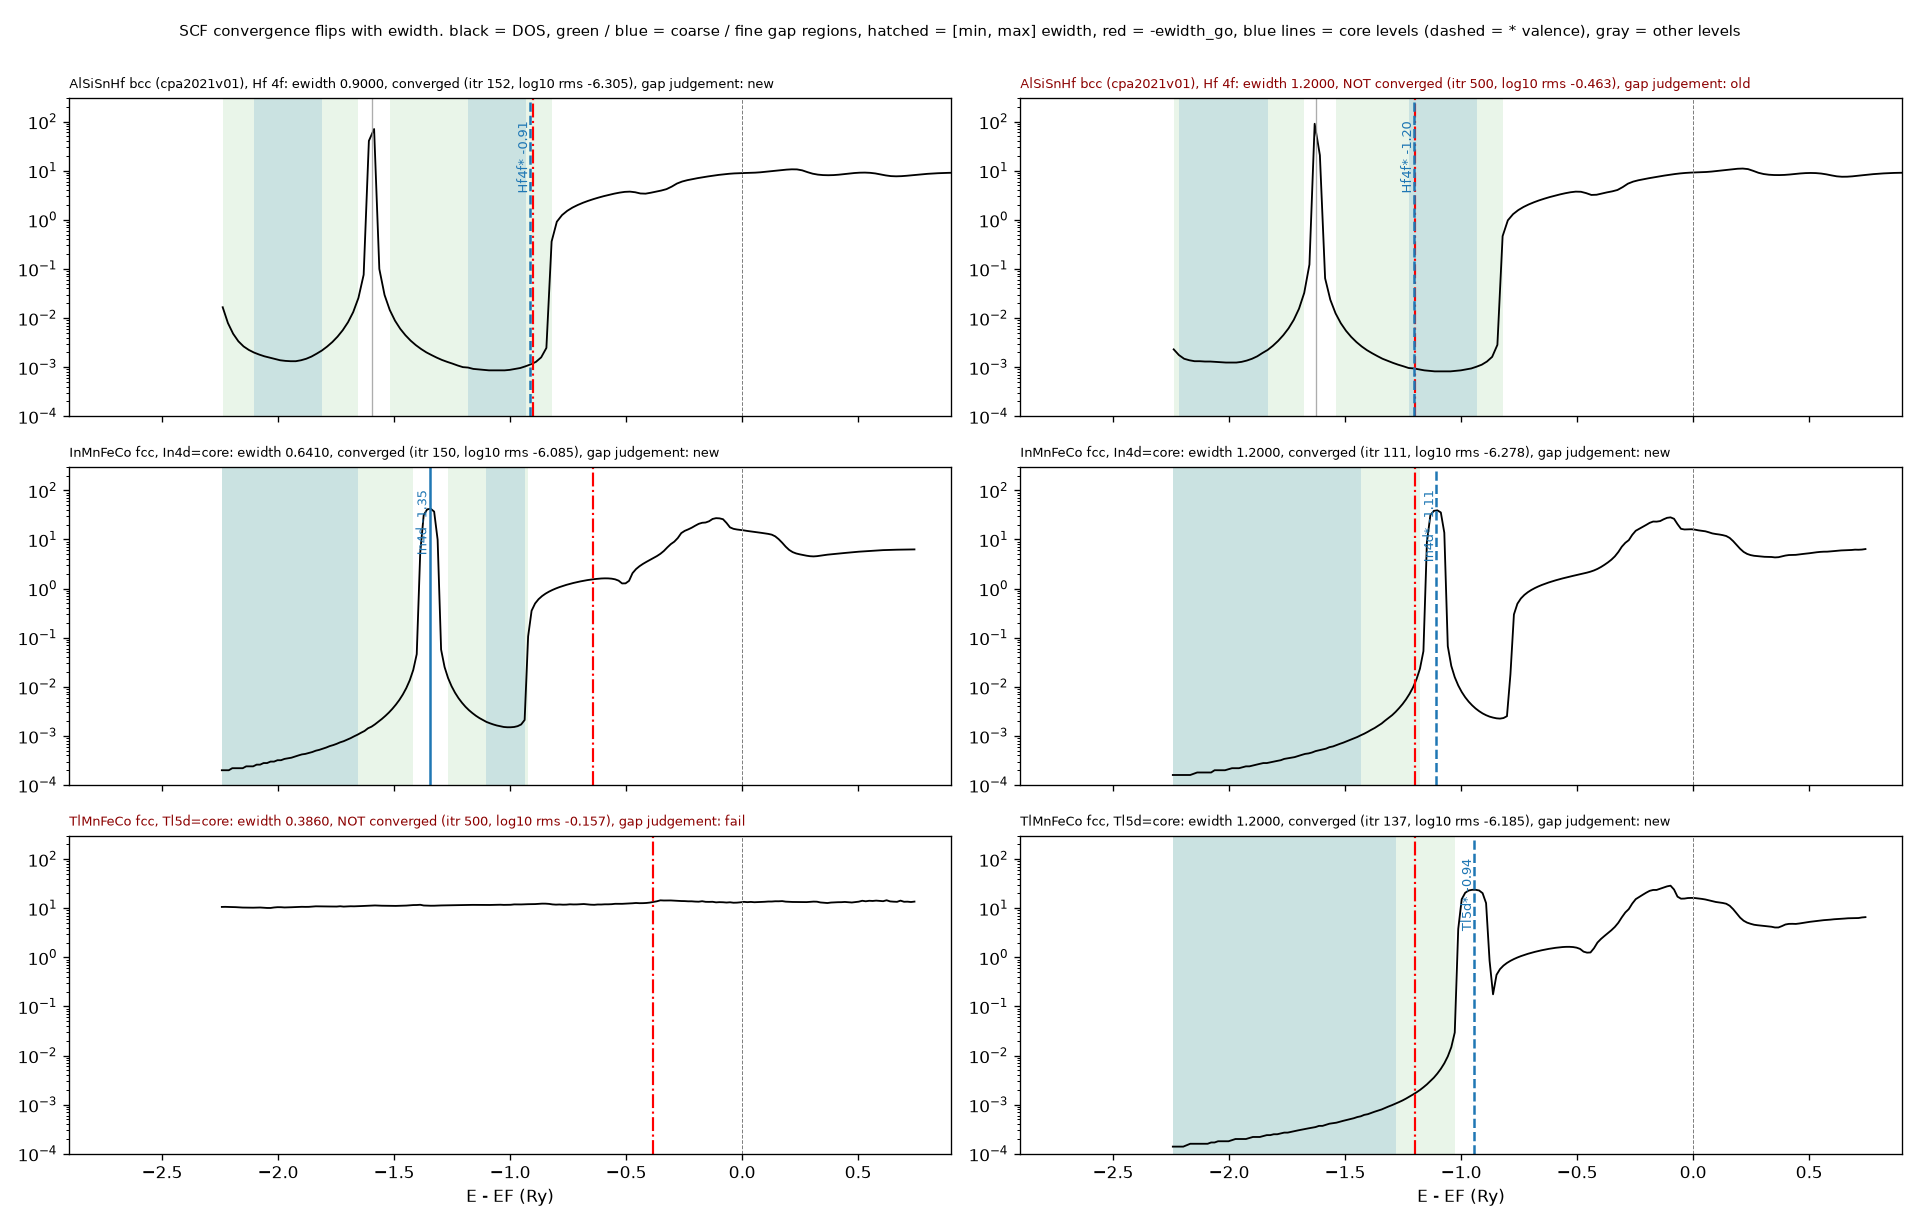
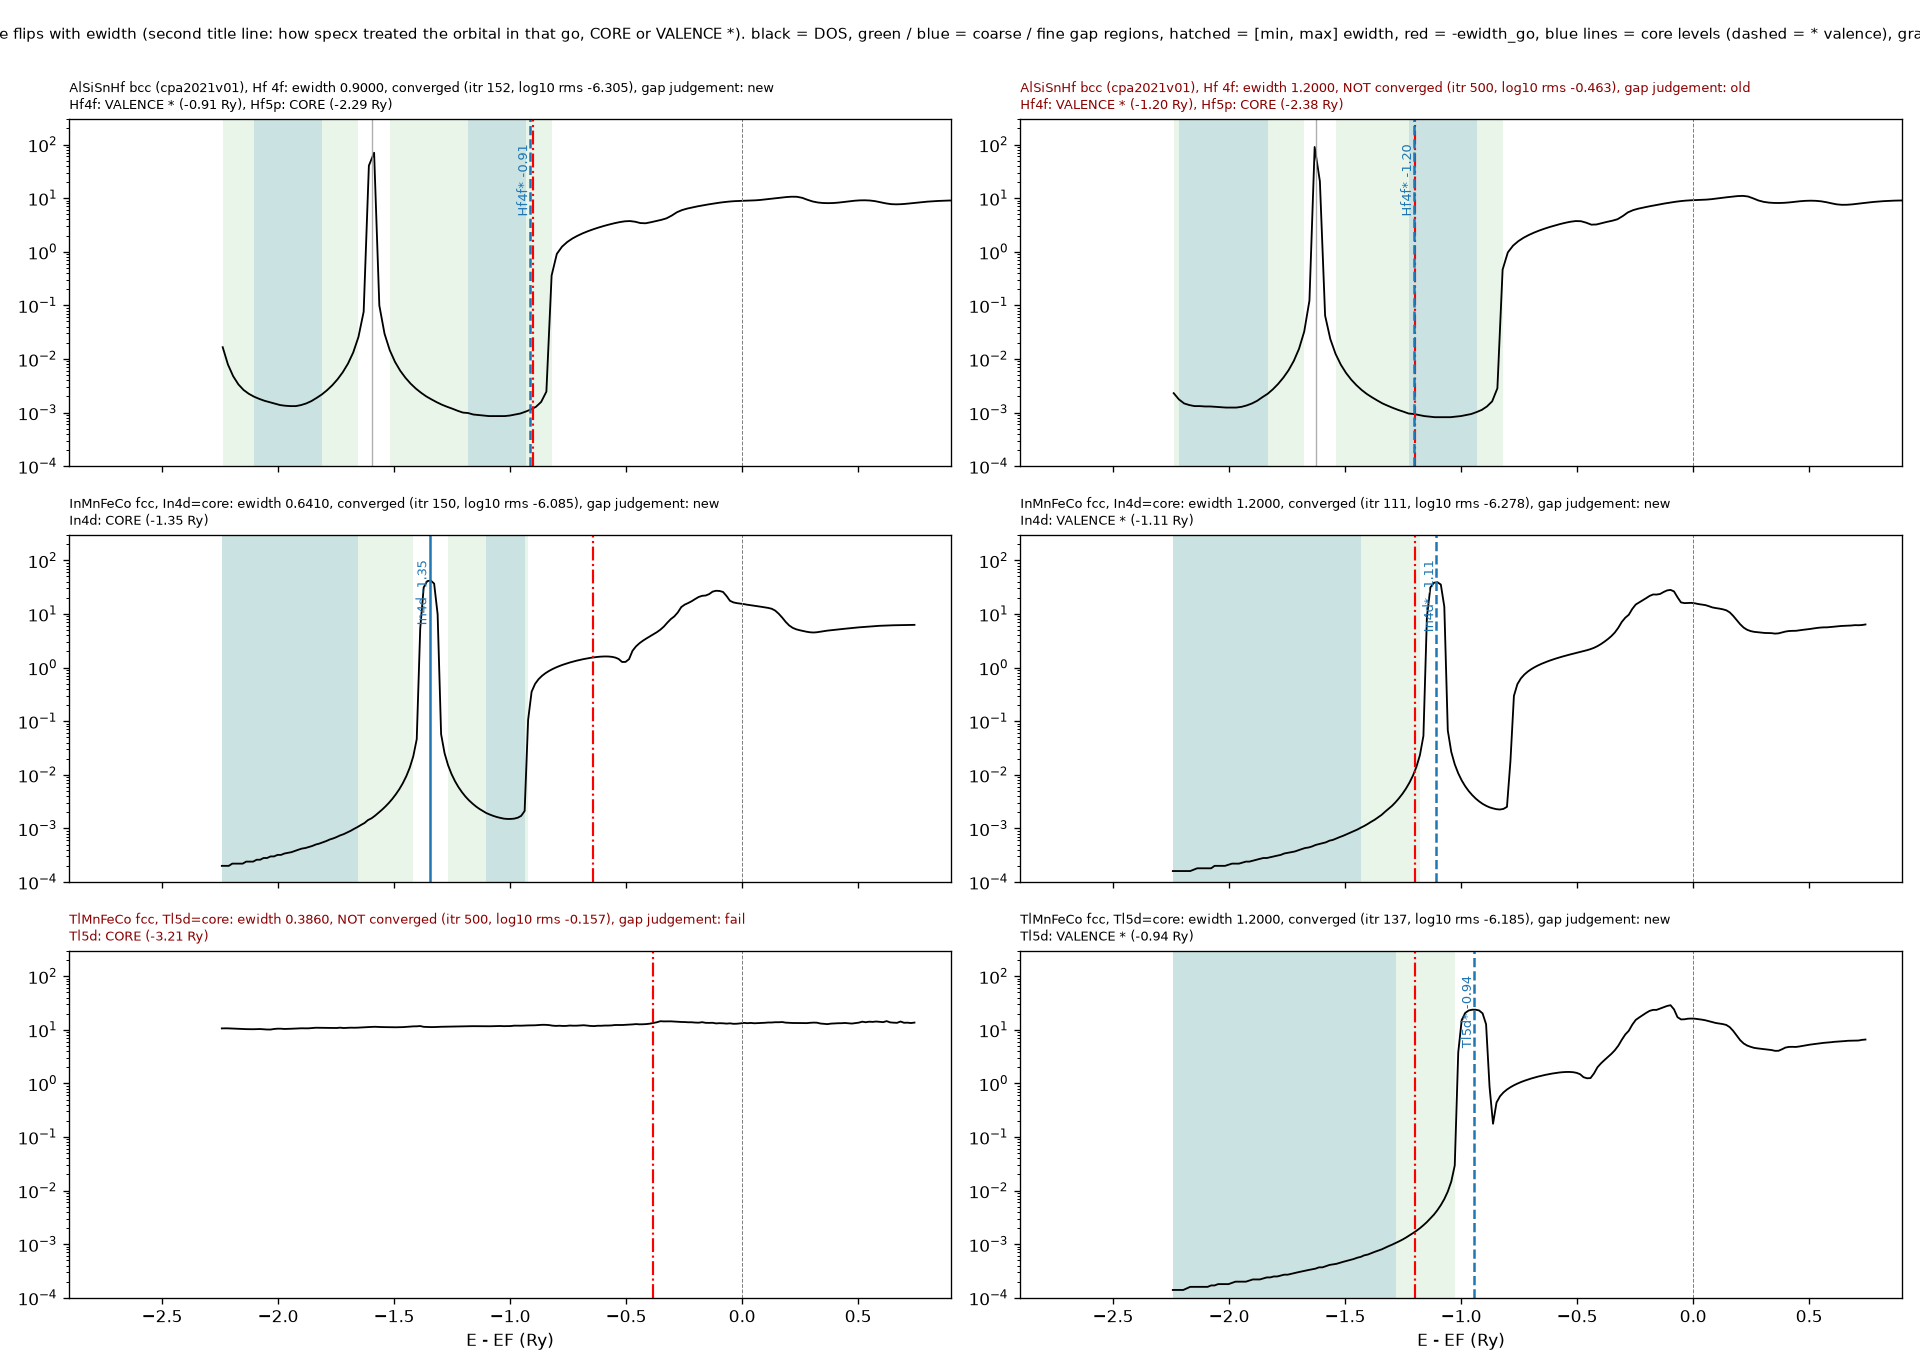
scf_convergence_vs_ewidth_dos.png: state in each panel whether the orbital was treated as core or valence

diff --git a/tests/gaes/tools/plot_conv_pairs.py b/tests/gaes/tools/plot_conv_pairs.py
@@ -17,7 +17,7 @@ def info(d):
     txt = open(d + "/out_go.log").read()
     itr = re.findall(r"itr=\s*(\d+)", txt); err = re.findall(r"rms err=\s*(-?\d+\.\d+)", txt)
     return (int(itr[-1]) if itr else None), (float(err[-1]) if err else None), ("cpu time" in txt or "sbrtime" in txt)
-fig, axes = plt.subplots(len(PAIRS), 2, figsize=(16, 3.4 * len(PAIRS)), sharex=True)
+fig, axes = plt.subplots(len(PAIRS), 2, figsize=(16, 3.8 * len(PAIRS)), sharex=True)
 for row, (name, keys, runs) in enumerate(PAIRS):
     for col, (d, ew) in enumerate(runs):
         ax = axes[row, col]
@@ -27,9 +27,11 @@ for row, (name, keys, runs) in enumerate(PAIRS):
         dec = choose_ewidth2(e, c, ew, dosth=2e-2, dosth2=1e-3, eth=0.3, ediff=0.2)
         flag = dec.flag
         draw_gaes_dos(ax, e, c[0], ewidth=ew, decision=dec, levels=lv, highlight=keys, xlim=(-2.9, 0.9))
-        ax.set_title("%s: ewidth %.4f, %s (itr %s, log10 rms %s), gap judgement: %s" % (
-            name, ew, "converged" if conv else "NOT converged", n, err, flag), fontsize=8, loc="left",
+        # how specx treated the orbital concerned in this go: '*' = valence (inside the contour), else core
+        roles = ", ".join("%s: %s (%.2f Ry)" % (k, "VALENCE *" if lv[k].star else "CORE", lv[k].e) for k in keys if k in lv)
+        ax.set_title("%s: ewidth %.4f, %s (itr %s, log10 rms %s), gap judgement: %s\n%s" % (
+            name, ew, "converged" if conv else "NOT converged", n, err, flag, roles), fontsize=8, loc="left",
             color="k" if conv else "darkred")
 for ax in axes[-1]: ax.set_xlabel("E - EF (Ry)")
-fig.suptitle("SCF convergence flips with ewidth. " + legend_text(), fontsize=9)
+fig.suptitle("SCF convergence flips with ewidth (second title line: how specx treated the orbital in that go, CORE or VALENCE *). " + legend_text(), fontsize=9)
 fig.tight_layout(rect=(0, 0, 1, 0.98)); fig.savefig("conv_pairs_dos.png", dpi=120); print("saved conv_pairs_dos.png")

diff --git a/docs/ewidth_tuning_scheme.md b/docs/ewidth_tuning_scheme.md
@@ -428,7 +428,7 @@ specx が必要（`AKAIKKR_PROGRAM_PATH`）:
 - specx は `a=1000000` をヘッダで `a=*********` と印字する。`get_lattice_constant` は `bravais=` の行から読むので影響しない。
 - DOS の閾値判定は E − E_F の軸で行う。`get_dos` が返すエネルギーは out_dos.log の 1 列目そのもの（E_F 基準）。
 - 移植元の `pot.dat.info` は読まない。
-- **ewidth を微少動かしただけで SCF が収束する / しないことがある**（ユーザー注記、2026-09-25）。積分路の下端 E_F − ewidth が準位や帯の端の近くにあると、わずかな ewidth の違いで下端が準位をまたぐ（`*` の付け替え、reconf の結果が変わる）、あるいは帯の裾を切る量が変わり、収束の可否が反転する。例: Hf 4f が −1.2 Ry にある系で ewidth 1.2 は収束せず 0.9 は収束する（§13.1）、Rb 4p core 指定で 0.5875（valence 帯の底 −0.58 に接する）は発散する（§15.5.1）。したがって、収束しないことだけを理由に「その ewidth 付近に解が無い」とは言えず、ギャップ判定は DOS で行う（§0.2）。逆に、収束したことは積分路がギャップにある証拠にならない（In 4d core の 0.641 は valence 帯の中で収束した）。候補 ewidth は必ずギャップの位置から決め、収束パラメタ（edelt、pmix、bzqlty）の変更と ewidth の変更は別の段階で行う（§7）。図 `docs/data/scf_convergence_vs_ewidth_dos.png`（AlSiSnHf bcc は cpa2021v01 ビルド: 0.9 収束 / 1.2 未収束、4f* が −0.91 / −1.20 Ry で積分路の下端に重なる。InMnFeCo In 4d core: 0.641 は valence 帯の中で収束、1.2 も収束。TlMnFeCo Tl 5d core: 0.386 は発散し 5d が −3.2 Ry へ、1.2 は収束。Rb 4p core の 1.2 / 0.5875 は `hea_XMnFeCo_fcc_orbital_rules_dos.png`）。スクリプト `tests/gaes/tools/plot_conv_pairs.py`。
+- **ewidth を微少動かしただけで SCF が収束する / しないことがある**（ユーザー注記、2026-09-25）。積分路の下端 E_F − ewidth が準位や帯の端の近くにあると、わずかな ewidth の違いで下端が準位をまたぐ（`*` の付け替え、reconf の結果が変わる）、あるいは帯の裾を切る量が変わり、収束の可否が反転する。例: Hf 4f が −1.2 Ry にある系で ewidth 1.2 は収束せず 0.9 は収束する（§13.1）、Rb 4p core 指定で 0.5875（valence 帯の底 −0.58 に接する）は発散する（§15.5.1）。したがって、収束しないことだけを理由に「その ewidth 付近に解が無い」とは言えず、ギャップ判定は DOS で行う（§0.2）。逆に、収束したことは積分路がギャップにある証拠にならない（In 4d core の 0.641 は valence 帯の中で収束した）。候補 ewidth は必ずギャップの位置から決め、収束パラメタ（edelt、pmix、bzqlty）の変更と ewidth の変更は別の段階で行う（§7）。図 `docs/data/scf_convergence_vs_ewidth_dos.png`（各面の 2 行目に、その go で specx がその軌道を core と valence（`*`）のどちらで扱ったかを書く。AlSiSnHf bcc は cpa2021v01 ビルド: 0.9 収束 / 1.2 未収束、どちらも 4f は valence `*` で −0.91 / −1.20 Ry、積分路の下端に重なる。In 4d は 0.641 で core（−1.35 Ry）、1.2 で valence `*`（−1.11 Ry）。Tl 5d は 0.386 で core（−3.21 Ry、窓の外）、1.2 で valence `*`（−0.94 Ry）。InMnFeCo In 4d core: 0.641 は valence 帯の中で収束、1.2 も収束。TlMnFeCo Tl 5d core: 0.386 は発散し 5d が −3.2 Ry へ、1.2 は収束。Rb 4p core の 1.2 / 0.5875 は `hea_XMnFeCo_fcc_orbital_rules_dos.png`）。スクリプト `tests/gaes/tools/plot_conv_pairs.py`。
 - DOS 図を出すときは go の ewidth の線を入れる（`DosEXPlotter(..., go_outfile="out_go.log")`、[dos_plot_ewidth_line.md](dos_plot_ewidth_line.md)）。
 - 2019 年の RUN を読むときは、誤り #1 のため `ew_000` に「ewidth=1.2 で計算した結果」しか無い。ewidth は必ず inputcard_go から読み直す。
 - `test_committee_small.py`: 同じ系で `GaesCommittee(ewidth_members=(0.5, 1.0, 1.5), n_parallel=3, maxitr_member=30).run` が `committee` の票と consensus gap を返し、採用した初期 ewidth がその区間に入ること。
